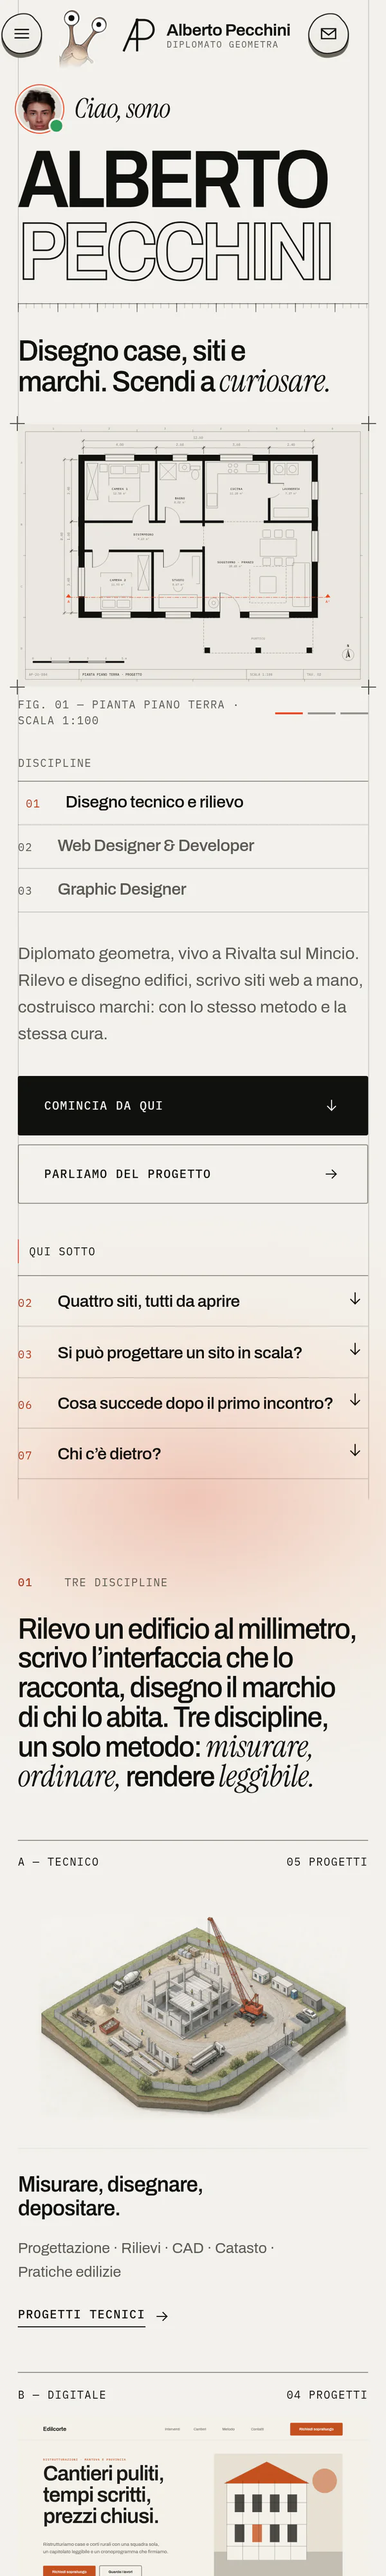
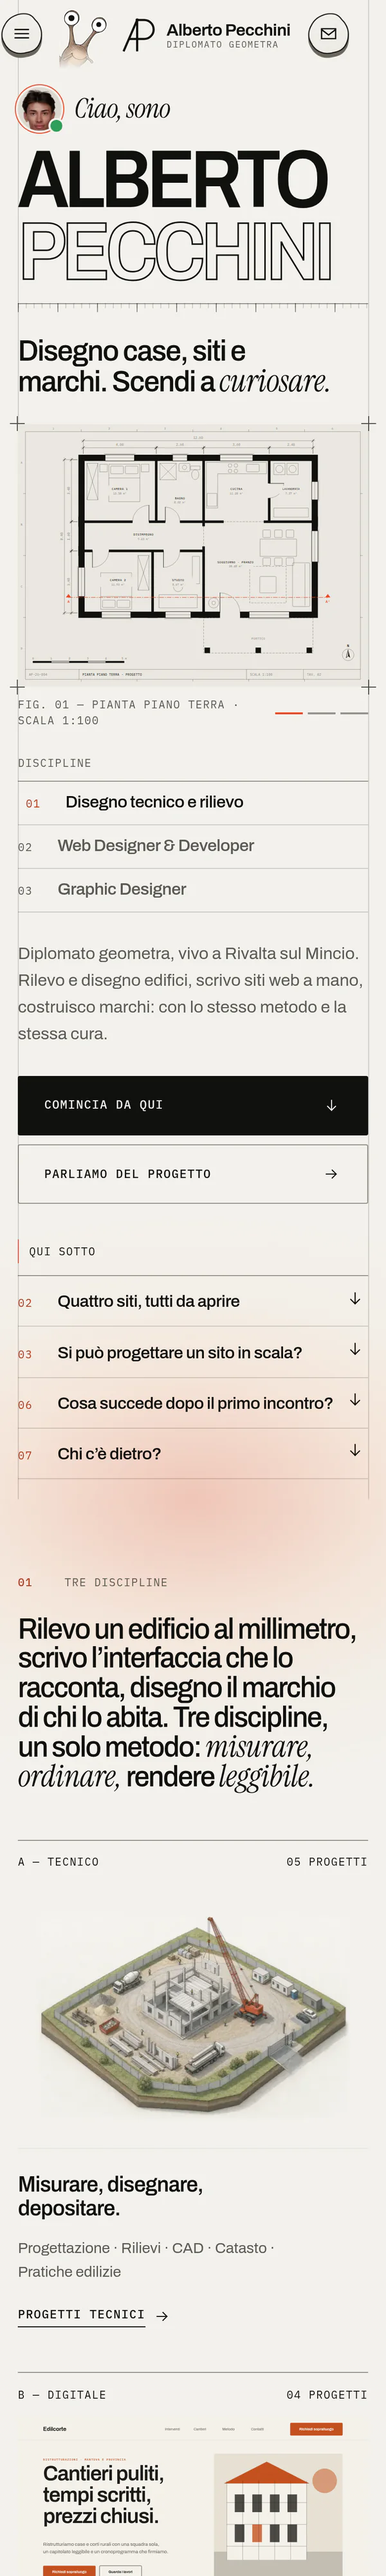
Catture aggiornate: Alberto Pecchini
Rifatte da .github/workflows/catture.yml: il sito online era cambiato.

diff --git a/albertopecchini.it/src/data/catture.js b/albertopecchini.it/src/data/catture.js
@@ -4,17 +4,17 @@
 // la copia vecchia dopo un aggiornamento.
 
 export const catture = {
-  'ap-desktop-tall.webp': { w: 1200, h: 2833, v: '904d7498' },
-  'ap-desktop.webp': { w: 1200, h: 750, v: '2c2b6634' },
-  'ap-iphone-01.webp': { w: 804, h: 4026, v: '63cd32bc' },
+  'ap-desktop-tall.webp': { w: 1200, h: 2833, v: '37e76ba5' },
+  'ap-desktop.webp': { w: 1200, h: 750, v: '44ccbeb7' },
+  'ap-iphone-01.webp': { w: 804, h: 4026, v: 'bf44bc47' },
   'ap-iphone-02.webp': { w: 804, h: 4026, v: '77976c66' },
-  'ap-iphone-03.webp': { w: 804, h: 4026, v: 'db334445' },
-  'ap-iphone-04.webp': { w: 804, h: 4026, v: '201f4fae' },
-  'ap-iphone-05.webp': { w: 804, h: 4026, v: 'c772409f' },
-  'ap-iphone-06.webp': { w: 804, h: 4018, v: 'ce6c4cb4' },
-  'ap-mobile-tall.webp': { w: 600, h: 4000, v: 'acac781d' },
+  'ap-iphone-03.webp': { w: 804, h: 4026, v: '3c8b25b9' },
+  'ap-iphone-04.webp': { w: 804, h: 4026, v: 'e59bb366' },
+  'ap-iphone-05.webp': { w: 804, h: 4026, v: '027d695b' },
+  'ap-iphone-06.webp': { w: 804, h: 4018, v: '28b9b332' },
+  'ap-mobile-tall.webp': { w: 600, h: 4000, v: '44f07a96' },
   'ap-mobile.webp': { w: 600, h: 1298, v: '0c7f7651' },
-  'ap-tablet.webp': { w: 720, h: 1036, v: 'a3170a91' },
+  'ap-tablet.webp': { w: 720, h: 1036, v: '0064b322' },
   'cascina-contatti-mobile.webp': { w: 600, h: 1298, v: '990e9109' },
   'cascina-desktop-tall.webp': { w: 1200, h: 2833, v: 'fe6d5c83' },
   'cascina-desktop.webp': { w: 1200, h: 750, v: 'd17236bb' },
